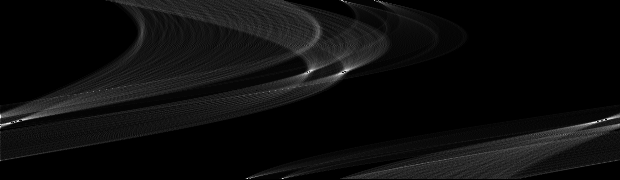
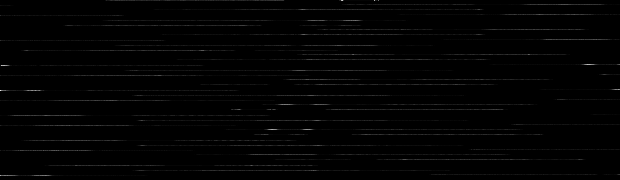
hough transform soso. Terible manque de precision. A revoir

diff --git a/src/ImageProcessing/hough-transform.c b/src/ImageProcessing/hough-transform.c
@@ -45,10 +45,10 @@ SDL_Surface* hough_transform(SDL_Surface * image, int pas)
 
             if (r!=0) 
             {
-               for (int theta=0; theta<180; ++theta) 
+               for (int theta=0; theta<180; theta+=pas) 
                {
-                    rho = x*cosf((float)theta*rad) 
-                        + y*sinf((float)theta*rad);
+                    rho = x*cosf((float)theta) 
+                        + y*sinf((float)theta);
                     
                     SDL_GetRGBA(mat[theta*matrice->w+rho], format, &r1
                             , &g1, &b1, &a1);
@@ -98,10 +98,14 @@ void draw_line(SDL_Surface* image, int x1, int y1, int x2, int y2)
 
     while (current_x != x2 || current_y != y2) 
     {
-        Uint8 *pixel = (Uint8 *)image->pixels + current_y * image->pitch 
-            + current_x * 4;
+        if (current_x >=0 && current_x < image->w 
+                && current_y >= 0 && current_y < image->h) 
+        {
+            Uint8 *pixel = (Uint8 *)image->pixels + current_y * image->pitch 
+                + current_x * 4;
 
-        *(Uint32 *)pixel = color;
+            *(Uint32 *)pixel = color;
+        }
 
         int err2 = 2 * err;
         if (err2 > -dy) 
@@ -115,8 +119,9 @@ void draw_line(SDL_Surface* image, int x1, int y1, int x2, int y2)
             current_y += sy;
         }
     }
-
 }
+
+
 
 void draw_hough_line(SDL_Surface* image, SDL_Surface* hough_pic, int seuil)
 { 
@@ -128,24 +133,22 @@ void draw_hough_line(SDL_Surface* image, SDL_Surface* hough_pic, int seuil)
 
     Uint8 r,g,b,a;
 
-    for (int y = 0; y<hough_pic->h; ++y) 
+    for (int theta = 0; theta<hough_pic->h; ++theta) 
     {
-        for (int x =0; x<hough_pic->w; ++x) 
+        for (int rho =0; rho<hough_pic->w; ++rho) 
         {
-            SDL_GetRGBA(mat[y*hough_pic->w +x],format, &r, &g, &b, &a);
+            SDL_GetRGBA(mat[theta*hough_pic->w +rho],format, &r, &g, &b, &a);
             
             if (r>seuil) 
             {
-               int a = cos(y);
-               int b = sin(y);
-               int x0 = a * x;
-               int y0 = b * x;
-
-               int x1 = x0 + R*(-b);
-               int y1 = y0 + R*(a);
-               int x2 = x0 - R*(-b);
-               int y2 = y0 - R*(a);
-               
+                
+                int x1 = rho*cos(theta)-R*sin(theta);
+                int y1 = rho*sin(theta)+R*cos(theta);
+                int x2 = rho*cos(theta)+R*sin(theta);
+                int y2 = rho*sin(theta)-R*cos(theta);
+                
+    
+              /* 
                 if (x1<0) 
                 {
                     x1 = 0;
@@ -162,16 +165,16 @@ void draw_hough_line(SDL_Surface* image, SDL_Surface* hough_pic, int seuil)
                 {
                     y2 = 0;
                 }
-
+*/
                 printf("x1= %d  y1= %d  x2= %d  y2= %d\n",x1,y1,x2,y2);
 
-               draw_line(image, x1, y1, x2, y2);
+
+                draw_line(image, x1, y1, x2, y2);
             }
             
         }
     }
 
-               IMG_SavePNG(image, "tmp2.png");
 }
 
 

diff --git a/src/ImageProcessing/testmain.c b/src/ImageProcessing/testmain.c
@@ -27,7 +27,7 @@ int main(int argc, char *argv[])
 
     SDL_PixelFormat* format = SDL_AllocFormat(SDL_PIXELFORMAT_RGBA8888);
     SDL_Surface *image_converted = SDL_ConvertSurface(image, format, 0);
-    SDL_Surface *image_converted1 = SDL_ConvertSurface(image, format, 0);
+//    SDL_Surface *image_converted1 = SDL_ConvertSurface(image, format, 0);
     SDL_FreeSurface(image);
 
 
@@ -45,8 +45,8 @@ int main(int argc, char *argv[])
     //Thresholdhysteresis(image_converted);
 //    image_converted = Canny(image_converted);
     SDL_Surface* tmp = hough_transform(image_converted, 5);
-    //draw_line(image_converted, 0, 371, 497, 0);
-    draw_hough_line(image_converted, tmp, 30);
+//    draw_line(image_converted, 0, 1000, 300, -100);
+    draw_hough_line(image_converted, tmp, 120);
     //GaussianBlur(image_converted);
 
     if (IMG_SavePNG(image_converted, argv[2]) != 0) 
@@ -55,7 +55,8 @@ int main(int argc, char *argv[])
     }
 
     SDL_FreeSurface(image_converted);
-    SDL_FreeSurface(image_converted1);
+//    SDL_FreeSurface(image_converted1);
+    SDL_FreeSurface(tmp);
 
     IMG_Quit();
     SDL_Quit();
